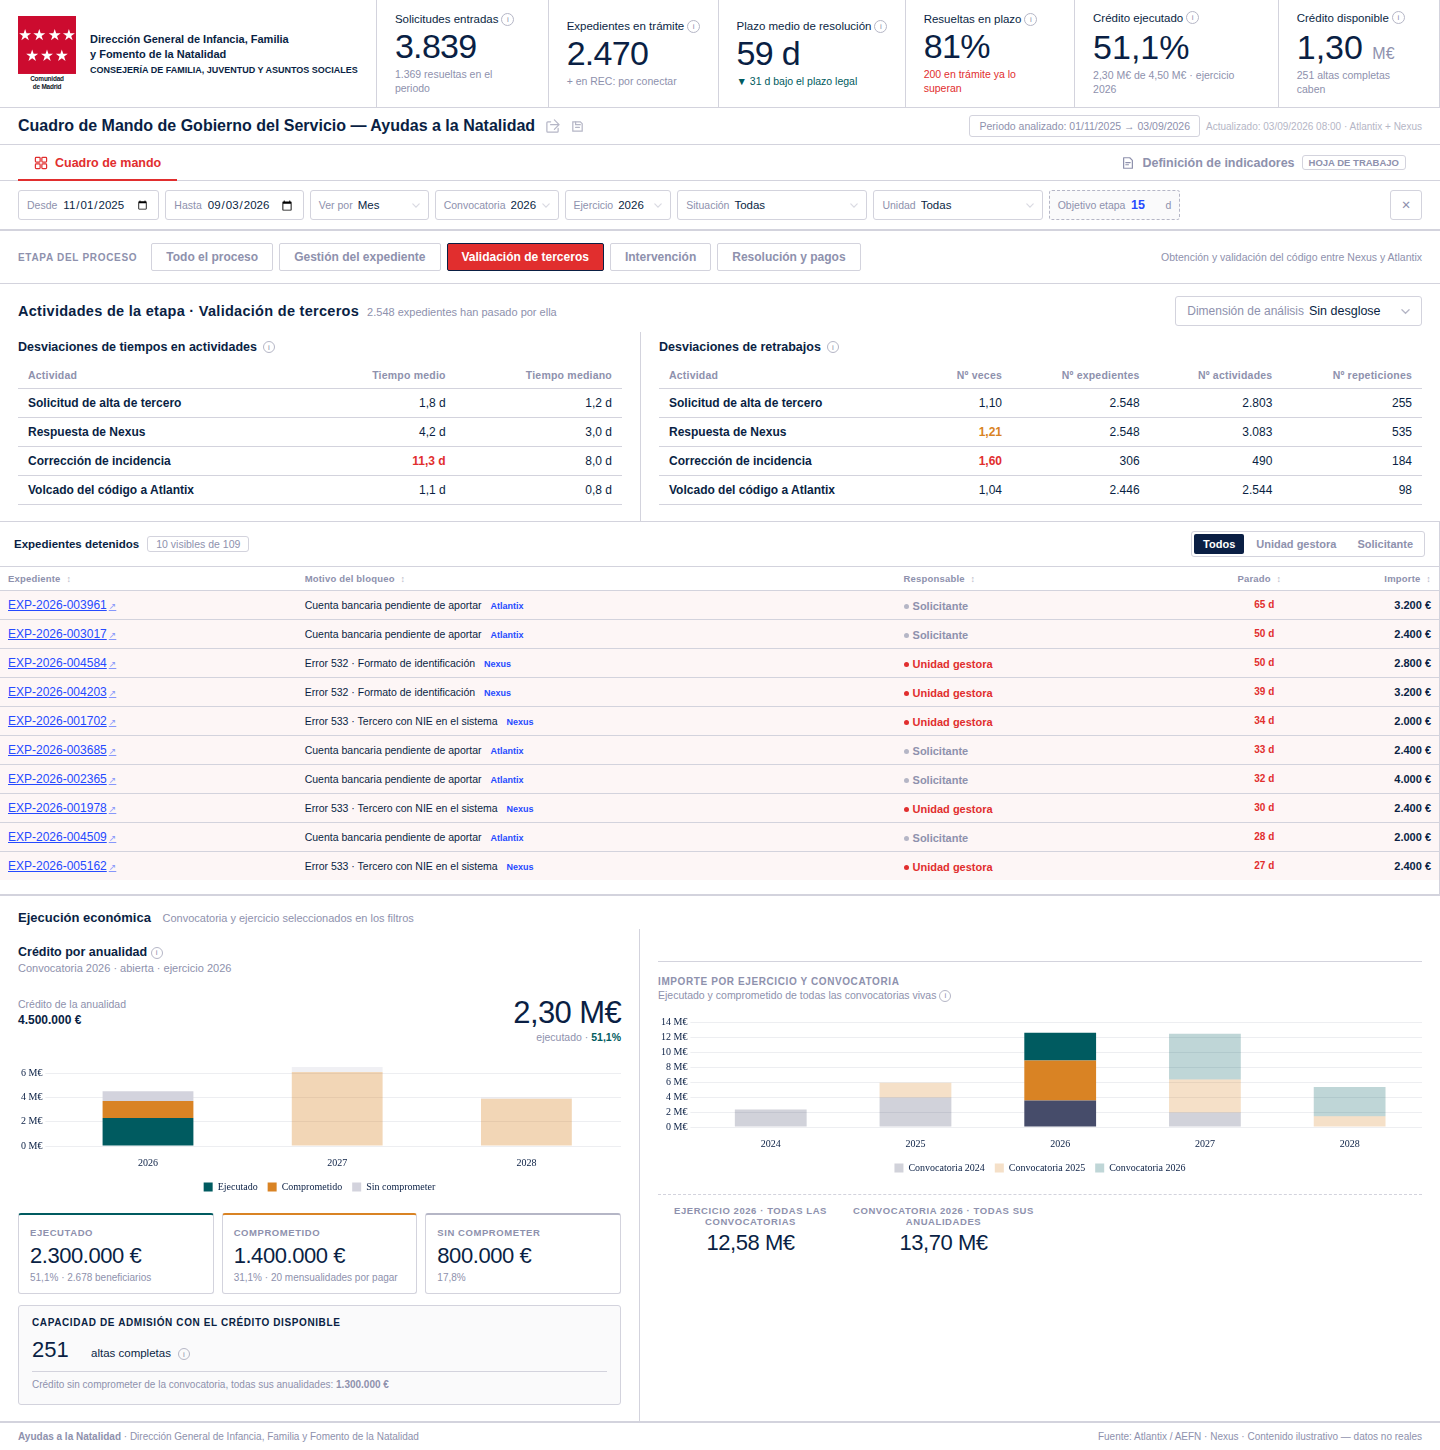
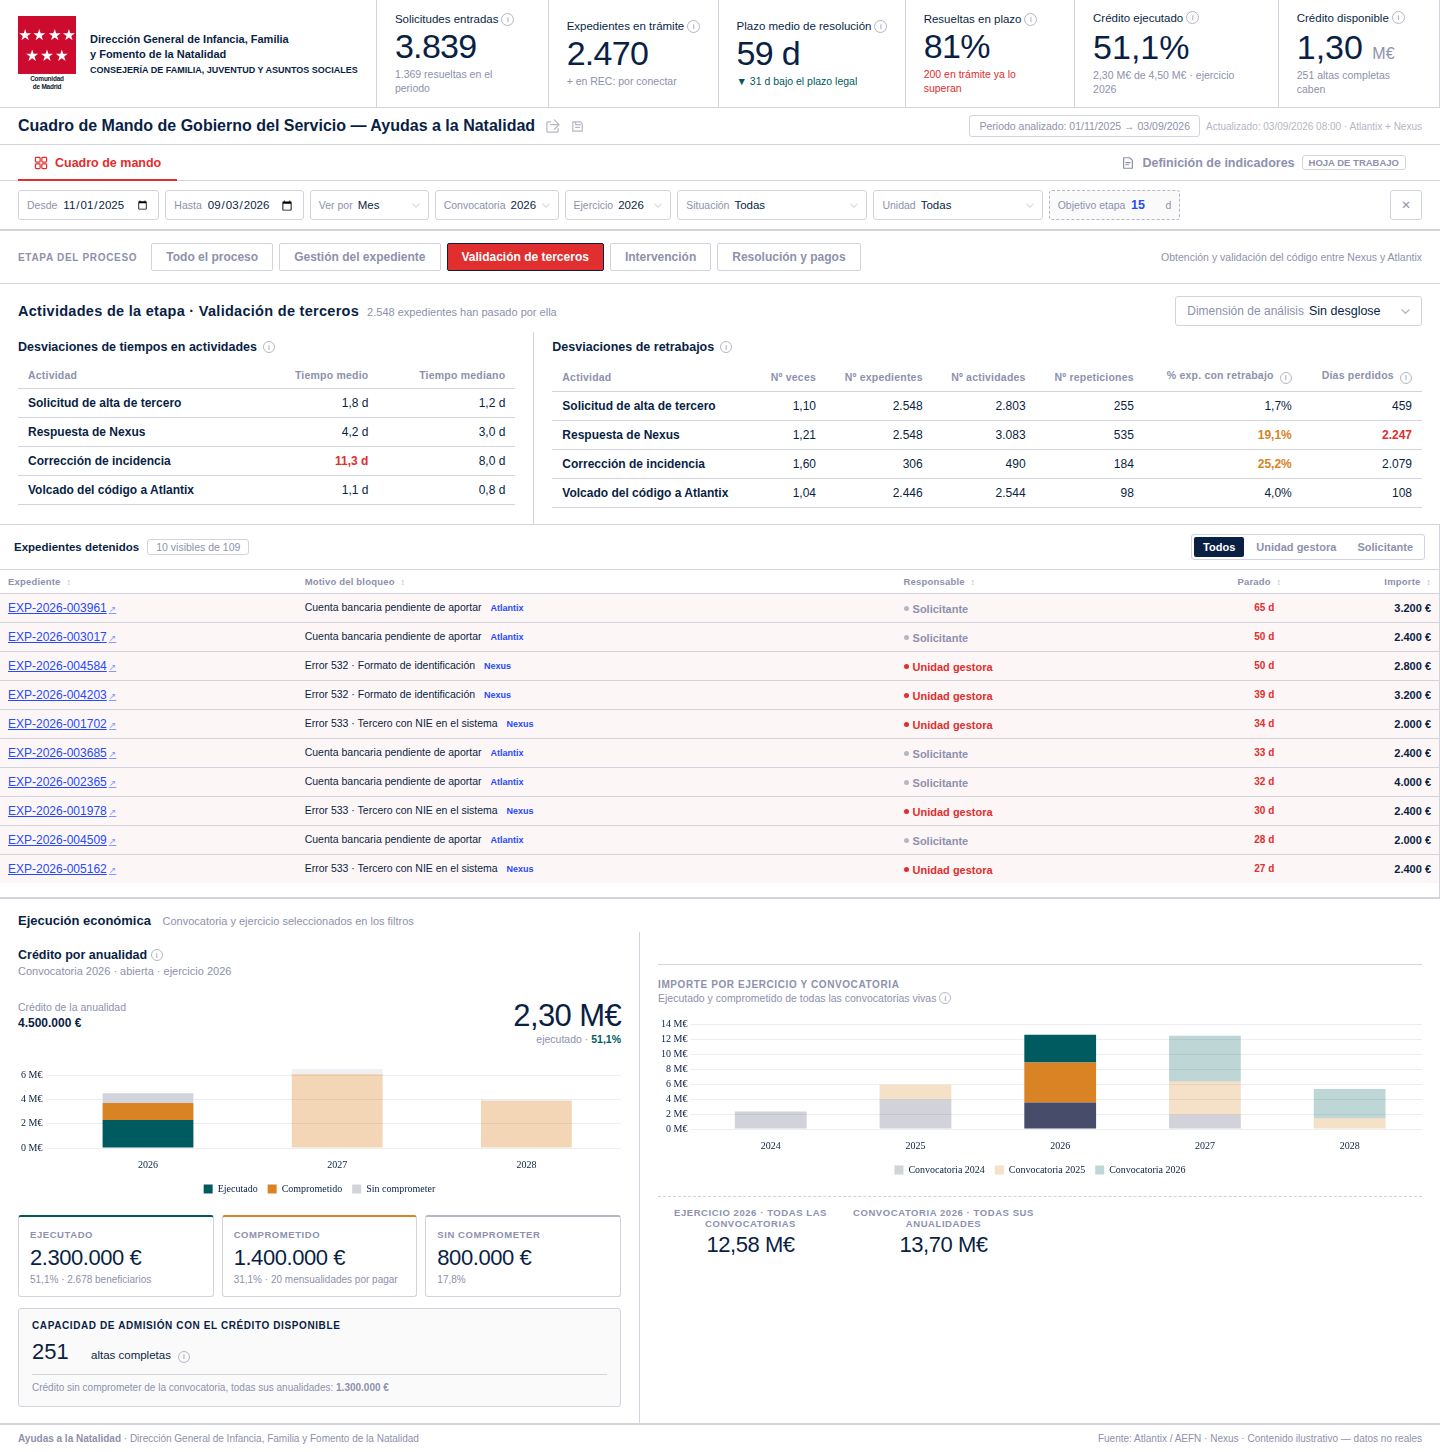
Natalidad v9: % de expedientes con retrabajo y días perdidos para priorizar sin que un caso aislado distorsione
Claude-Session: https://claude.ai/code/session_012PCcGQXYr4PR8xb2pBrhox

diff --git a/mockups/MockupNatalidad_v9.html b/mockups/MockupNatalidad_v9.html
@@ -815,7 +815,9 @@ th.col-focus{background:#FAFAFB!important;color:#0A1F44!important;}
 .act-ttl{font-size:14.5px;font-weight:700;color:var(--cnavy);letter-spacing:.02em;}
 .act-ttl span{font-size:11px;font-weight:400;color:var(--cgy);margin-left:8px;letter-spacing:0;}
 .act-dim{height:30px!important;}
-.act-grid{display:grid;grid-template-columns:1fr 1.25fr;}
+.act-grid{display:grid;grid-template-columns:1fr 1.7fr;}
+.act-tbl th .ii{vertical-align:-1px;margin-left:3px;}
+.act-tbl th .ii[data-t]::after{left:auto;right:-6px;transform:none;}
 .act-col{padding:8px 18px 16px;min-width:0;}
 .act-col+.act-col{border-left:1px solid var(--cbd);}
 .act-col h4{font-size:12.5px;font-weight:600;color:var(--cnavy);margin-bottom:8px;display:flex;align-items:center;gap:6px;}
@@ -1009,7 +1011,7 @@ th.col-focus{background:#FAFAFB!important;color:#0A1F44!important;}
       <table class="act-tbl"><thead id="actTH1"></thead><tbody id="actTB1"></tbody></table>
     </div>
     <div class="act-col">
-      <h4>Desviaciones de retrabajos <i class="ii" data-t="Cuántas veces se repite cada actividad. Nº veces = actividades ÷ expedientes: 1 significa que cada expediente pasa una sola vez. Nº de repeticiones = actividades − expedientes: las ejecuciones que sobran, es decir, el retrabajo.">i</i></h4>
+      <h4>Desviaciones de retrabajos <i class="ii" data-t="Cuántas veces se repite cada actividad. Para priorizar, mirad «% exp. con retrabajo» y «Días perdidos»: Nº veces es una media y un solo caso aislado la dispara. Nº veces = actividades ÷ expedientes: 1 significa que cada expediente pasa una sola vez. Nº de repeticiones = actividades − expedientes: las ejecuciones que sobran, es decir, el retrabajo.">i</i></h4>
       <table class="act-tbl"><thead id="actTH2"></thead><tbody id="actTB2"></tbody></table>
     </div>
   </div>
@@ -2092,17 +2094,18 @@ function legHtml(arr,line){
   return arr.map(([c,n])=>`<div class="leg"><div class="${line?'leg-ln':'leg-sq'}" style="background:${c};"></div>${n}</div>`).join('');
 }
 /* ════════ ACTIVIDADES POR ETAPA ════════
-   [actividad, tiempo medio, tiempo mediano, % de expedientes que pasan por ella, veces por expediente] */
+   [actividad, tiempo medio, tiempo mediano, % de expedientes que pasan por ella, veces por expediente,
+    repeticiones por expediente afectado: cerca de 1 = retrabajo repartido; alto = pocos casos que se repiten mucho] */
 const ACT = {
-  gestion: [['Recepción de la solicitud',1.4,1.0,1,1.00],['Revisión de documentación',6.2,4.0,1,1.18],
-            ['Requerimiento',3.1,2.0,.21,1.12],['Subsanación',18.2,14.0,.15,1.30],['Desistimiento',10.5,10.0,.06,1.00],
-            ['Denegación',2.8,2.0,.08,1.00],['Propuesta favorable',2.3,1.5,.86,1.09]],
-  terceros: [['Solicitud de alta de tercero',1.8,1.2,1,1.10],['Respuesta de Nexus',4.2,3.0,1,1.21],
-             ['Corrección de incidencia',11.3,8.0,.12,1.60],['Volcado del código a Atlantix',1.1,0.8,.96,1.04]],
-  intervencion: [['Envío a Intervención',4.1,3.0,1,1.13],['Fiscalización',5.2,4.5,1,1.13],
-                 ['Devolución por modificación',14.3,11.0,.12,1.25],['Reparo de Intervención',6.0,5.0,.04,1.10]],
-  pagos: [['Resolución',2.1,1.5,1,1.00],['Notificación',4.5,3.0,1,1.05],['Documento contable ADOK',3.8,3.0,1,1.08],
-          ['Fichero de pagos',2.6,2.0,1,1.02],['Liberación del pago',1.8,1.5,1,1.00]],
+  gestion: [['Recepción de la solicitud',1.4,1.0,1,1.00,1],['Revisión de documentación',6.2,4.0,1,1.18,1.1],
+            ['Requerimiento',3.1,2.0,.21,1.12,1.2],['Subsanación',18.2,14.0,.15,1.30,1.3],['Desistimiento',10.5,10.0,.06,1.00,1],
+            ['Denegación',2.8,2.0,.08,1.00,1],['Propuesta favorable',2.3,1.5,.86,1.09,4.5]],
+  terceros: [['Solicitud de alta de tercero',1.8,1.2,1,1.10,6.0],['Respuesta de Nexus',4.2,3.0,1,1.21,1.1],
+             ['Corrección de incidencia',11.3,8.0,.12,1.60,2.4],['Volcado del código a Atlantix',1.1,0.8,.96,1.04,1]],
+  intervencion: [['Envío a Intervención',4.1,3.0,1,1.13,1.1],['Fiscalización',5.2,4.5,1,1.13,1.1],
+                 ['Devolución por modificación',14.3,11.0,.12,1.25,1.2],['Reparo de Intervención',6.0,5.0,.04,1.10,5.0]],
+  pagos: [['Resolución',2.1,1.5,1,1.00,1],['Notificación',4.5,3.0,1,1.05,1.2],['Documento contable ADOK',3.8,3.0,1,1.08,4.0],
+          ['Fichero de pagos',2.6,2.0,1,1.02,1.5],['Liberación del pago',1.8,1.5,1,1.00,1]],
 };
 /* valores de cada dimensión: [nombre, peso, efecto en tiempo, efecto en repeticiones] */
 const DIMV = {
@@ -2120,20 +2123,27 @@ function renderAct(){
     vals.forEach((d,j)=>{
       const exp=Math.max(1,Math.round(base*a[3]*d[1])), veces=Math.max(1,1+(a[4]-1)*d[3]);
       const act=Math.round(exp*veces);
-      rows.push({a:a[0], d:d[0], first:j===0, tm:a[1]*d[2], tmd:a[2]*Math.min(d[2],1.1), exp, act, veces:act/exp, rep:act-exp});
+      const rep=act-exp, afe=rep ? Math.max(1,Math.min(exp,Math.round(rep/a[5]))) : 0;
+      /* días perdidos = repeticiones × lo que tarda la actividad: el coste real del retrabajo */
+      rows.push({a:a[0], d:d[0], first:j===0, tm:a[1]*d[2], tmd:a[2]*Math.min(d[2],1.1), exp, act, veces:act/exp, rep,
+                 afe, pct:afe/exp*100, perd:Math.round(rep*a[1]*d[2])});
     });
   });
-  const maxT=Math.max(...rows.map(r=>r.tm));
+  const maxT=Math.max(...rows.map(r=>r.tm)), maxP=Math.max(...rows.map(r=>r.perd));
   const dc = dim ? `<th>${dim==='sit'?'Situación':'Mes de entrada'}</th>` : '';
   document.getElementById('actTH1').innerHTML=`<tr><th>Actividad</th>${dc}<th class="r">Tiempo medio</th><th class="r">Tiempo mediano</th></tr>`;
-  document.getElementById('actTH2').innerHTML=`<tr><th>Actividad</th>${dc}<th class="r">Nº veces</th><th class="r">Nº expedientes</th><th class="r">Nº actividades</th><th class="r">Nº repeticiones</th></tr>`;
+  document.getElementById('actTH2').innerHTML=`<tr><th>Actividad</th>${dc}<th class="r">Nº veces</th><th class="r">Nº expedientes</th><th class="r">Nº actividades</th><th class="r">Nº repeticiones</th>`+
+    `<th class="r">% exp. con retrabajo <i class="ii" data-t="Expedientes que repiten la actividad al menos una vez, sobre los que pasan por ella. Distingue un problema extendido de un caso aislado: un expediente que se repite 15 veces sube el Nº veces, pero aquí pesa solo 1.">i</i></th>`+
+    `<th class="r">Días perdidos <i class="ii" data-t="Repeticiones × tiempo medio de la actividad. Es el coste del retrabajo en días de tramitación y sirve para priorizar: la actividad con más días perdidos es la que más plazo devuelve si se corrige.">i</i></th></tr>`;
   const tdA=r=>`<td class="act">${r.first?r.a:''}</td>`+(dim?`<td class="dim">${r.d}</td>`:'');
   const cls=(r)=> dim && r.first ? ' class="grp"' : '';
   document.getElementById('actTB1').innerHTML=rows.map(r=>`<tr${cls(r)}>${tdA(r)}`+
     `<td class="r${r.tm===maxT?' hi':''}">${f1(r.tm)} d</td><td class="r">${f1(r.tmd)} d</td></tr>`).join('');
   document.getElementById('actTB2').innerHTML=rows.map(r=>`<tr${cls(r)}>${tdA(r)}`+
-    `<td class="r ${r.veces>=1.30?'hi':r.veces>=1.15?'md':''}">${f2(r.veces)}</td>`+
-    `<td class="r">${nfmt(r.exp)}</td><td class="r">${nfmt(r.act)}</td><td class="r">${nfmt(r.rep)}</td></tr>`).join('');
+    `<td class="r">${f2(r.veces)}</td>`+
+    `<td class="r">${nfmt(r.exp)}</td><td class="r">${nfmt(r.act)}</td><td class="r">${nfmt(r.rep)}</td>`+
+    `<td class="r ${r.pct>=10?'md':''}">${r.pct.toFixed(1).replace('.',',')}%</td>`+
+    `<td class="r ${r.perd===maxP&&r.perd>0?'hi':''}">${nfmt(r.perd)}</td></tr>`).join('');
   document.getElementById('actTtl').innerHTML=`Actividades de la etapa · ${STAGES[k].label}<span>${nfmt(base)} expedientes han pasado por ella</span>`;
 }
 /* los gráficos son del proceso entero; con una etapa elegida, las tablas de actividades */
